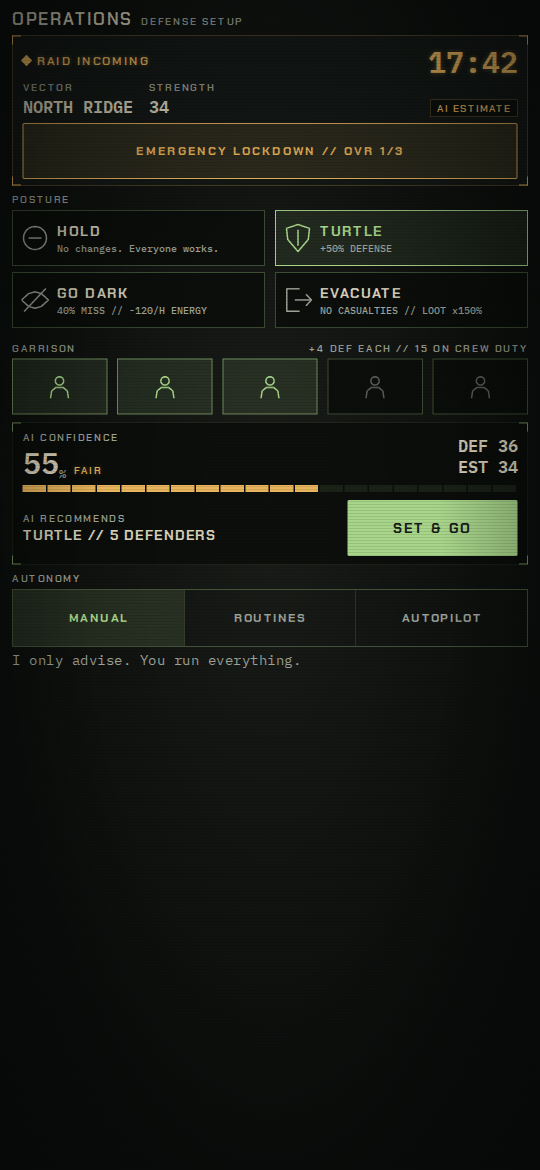
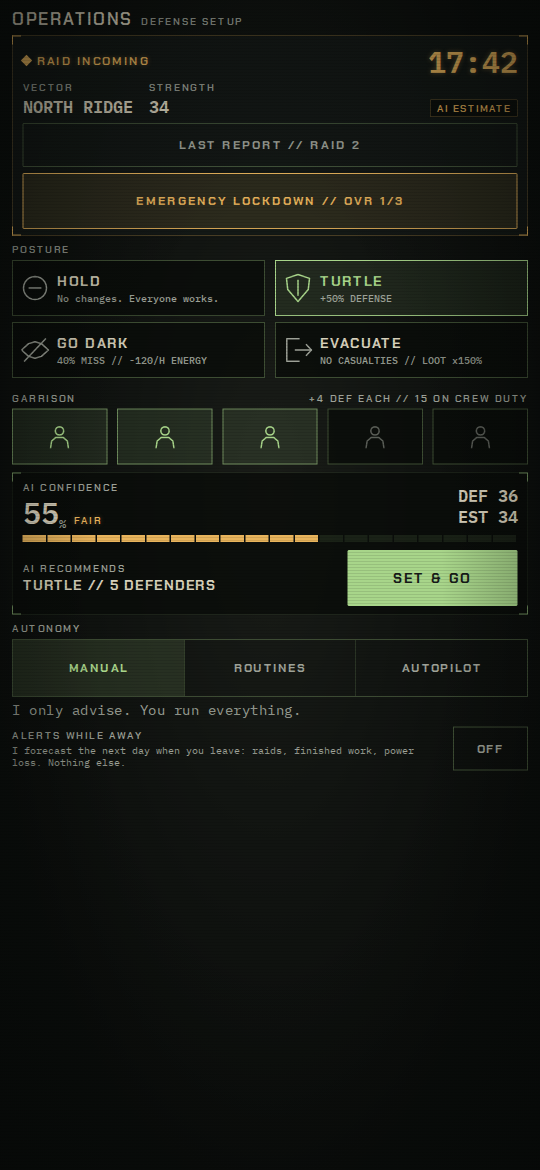
feat(ui): opt-in local notifications - schedule the logout forecast, cancel on return; close F-017
The mobile backend lives in its own assembly gated on com.unity.mobile.notifications
(versionDefines), so the project has no hard dependency on the package.

Claude-Session: https://claude.ai/code/session_01EKMT1Nv2wTRA3D1rfhWbSJ

diff --git a/unity/Assets/Game/Runtime/Notifications/Mobile/MobileAlertBackend.cs b/unity/Assets/Game/Runtime/Notifications/Mobile/MobileAlertBackend.cs
@@ -1,0 +1,77 @@
+using System;
+using System.Collections.Generic;
+using Deadswitch.Game.Core;
+using Deadswitch.Host.Notifications;
+using UnityEngine;
+#if UNITY_ANDROID
+using Unity.Notifications.Android;
+#endif
+#if UNITY_IOS
+using Unity.Notifications.iOS;
+#endif
+
+namespace Deadswitch.Game.Notifications
+{
+    /// <summary>
+    /// Android / iOS local notifications through com.unity.mobile.notifications (SPEC-010). This assembly only
+    /// compiles when that package is installed (versionDefines), so the game has no hard dependency on it.
+    /// </summary>
+    public sealed class MobileAlertBackend : IAlertBackend
+    {
+        private const string Channel = "ds_alerts";
+
+        [RuntimeInitializeOnLoadMethod(RuntimeInitializeLoadType.BeforeSceneLoad)]
+        private static void Register()
+        {
+            Bootstrap.Booted += _ =>
+            {
+#if UNITY_ANDROID || UNITY_IOS
+                LocalAlerts.Backend = new MobileAlertBackend();
+#endif
+            };
+        }
+
+        public void RequestPermission()
+        {
+#if UNITY_ANDROID
+            AndroidNotificationCenter.RegisterNotificationChannel(new AndroidNotificationChannel(Channel, "Core alerts", "Raids, construction and restored modules while you are away.", Importance.Default));
+            if (!UnityEngine.Android.Permission.HasUserAuthorizedPermission("android.permission.POST_NOTIFICATIONS"))
+            {
+                UnityEngine.Android.Permission.RequestUserPermission("android.permission.POST_NOTIFICATIONS");
+            }
+#elif UNITY_IOS
+            new AuthorizationRequest(AuthorizationOption.Alert | AuthorizationOption.Sound, false);
+#endif
+        }
+
+        public void Schedule(IReadOnlyList<ProjectedAlert> alerts, double secondsPerGameMinute)
+        {
+            for (int i = 0; i < alerts.Count; i++)
+            {
+                ProjectedAlert a = alerts[i];
+                double seconds = Math.Max(5.0, a.InMinutes * secondsPerGameMinute);
+#if UNITY_ANDROID
+                AndroidNotificationCenter.SendNotification(new AndroidNotification(a.Title, a.Body, DateTime.Now.AddSeconds(seconds)), Channel);
+#elif UNITY_IOS
+                iOSNotificationCenter.ScheduleNotification(new iOSNotification
+                {
+                    Identifier = "ds_" + i,
+                    Title = a.Title,
+                    Body = a.Body,
+                    ShowInForeground = false,
+                    Trigger = new iOSNotificationTimeIntervalTrigger { TimeInterval = TimeSpan.FromSeconds(seconds), Repeats = false },
+                });
+#endif
+            }
+        }
+
+        public void CancelAll()
+        {
+#if UNITY_ANDROID
+            AndroidNotificationCenter.CancelAllScheduledNotifications();
+#elif UNITY_IOS
+            iOSNotificationCenter.RemoveAllScheduledNotifications();
+#endif
+        }
+    }
+}

diff --git a/unity/Assets/Game/Runtime/Notifications/LocalAlerts.cs b/unity/Assets/Game/Runtime/Notifications/LocalAlerts.cs
@@ -1,0 +1,84 @@
+using System.Collections.Generic;
+using Deadswitch.Game.Core;
+using Deadswitch.Host.Notifications;
+using UnityEngine;
+
+namespace Deadswitch.Game.Notifications
+{
+    /// <summary>Platform side of local notifications. The mobile assembly replaces the default when available.</summary>
+    public interface IAlertBackend
+    {
+        /// <summary>Asks the OS for permission where needed (called when the handler opts in).</summary>
+        void RequestPermission();
+
+        void Schedule(IReadOnlyList<ProjectedAlert> alerts, double secondsPerGameMinute);
+
+        void CancelAll();
+    }
+
+    /// <summary>
+    /// Opt-in local notifications (SPEC-010): on pause/quit the logout projection's alerts are scheduled, on
+    /// return everything is cancelled. Off by default; nothing is scheduled while off.
+    /// </summary>
+    public static class LocalAlerts
+    {
+        private const string KeyEnabled = "ds.notify";
+
+        /// <summary>Set by the mobile assembly; logs in the Editor and on platforms without a backend.</summary>
+        public static IAlertBackend Backend { get; set; } = new LogBackend();
+
+        public static bool Enabled => PlayerPrefs.GetInt(KeyEnabled, 0) == 1;
+
+        public static void SetEnabled(bool on)
+        {
+            PlayerPrefs.SetInt(KeyEnabled, on ? 1 : 0);
+            PlayerPrefs.Save();
+            if (on)
+            {
+                Backend.RequestPermission();
+            }
+            else
+            {
+                Backend.CancelAll();
+            }
+        }
+
+        /// <summary>Called when the app goes to the background or quits.</summary>
+        public static void OnLeave(GameHost host)
+        {
+            Backend.CancelAll();
+            if (!Enabled || host == null || !host.IsReady)
+            {
+                return;
+            }
+
+            List<ProjectedAlert> alerts = LogoutProjection.Project(host.Sim, AlertKinds.All);
+            Backend.Schedule(alerts, 60.0 / host.Settings.DevTimeScale);
+        }
+
+        /// <summary>Called when the app returns: the forecast is stale and the handler is here.</summary>
+        public static void OnReturn()
+        {
+            Backend.CancelAll();
+        }
+
+        private sealed class LogBackend : IAlertBackend
+        {
+            public void RequestPermission()
+            {
+            }
+
+            public void Schedule(IReadOnlyList<ProjectedAlert> alerts, double secondsPerGameMinute)
+            {
+                foreach (ProjectedAlert a in alerts)
+                {
+                    Debug.Log("[DEADSWITCH] alert in " + (a.InMinutes * secondsPerGameMinute).ToString("0") + " s: " + a.Title + " // " + a.Body);
+                }
+            }
+
+            public void CancelAll()
+            {
+            }
+        }
+    }
+}

diff --git a/unity/Assets/Game/Runtime/UI/Screens/OpsScreen.cs b/unity/Assets/Game/Runtime/UI/Screens/OpsScreen.cs
@@ -66,6 +66,11 @@ namespace Deadswitch.Game.UI.Screens
             }
 
             _setGo.RegisterCallback<ClickEvent>(_ => SetAndGo());
+            Q("alerts-toggle").RegisterCallback<ClickEvent>(_ =>
+            {
+                Notifications.LocalAlerts.SetEnabled(!Notifications.LocalAlerts.Enabled);
+                Refresh();
+            });
             _lockdown.RegisterCallback<ClickEvent>(_ => Run(Command.UseOverride(OverrideKind.Lockdown)));
             Q("last-report").RegisterCallback<ClickEvent>(_ => openReport(BattleReport.LatestRaidId(_host.Sim.Log.Events)));
             BuildSockets();
@@ -222,6 +227,9 @@ namespace Deadswitch.Game.UI.Screens
             }
 
             Q<Label>("deleg-desc").text = DelegationLines[(int)s.Delegation];
+            bool alerts = Notifications.LocalAlerts.Enabled;
+            Q("alerts-toggle").EnableInClassList("is-on", alerts);
+            Q<Label>("alerts-label").text = alerts ? "ON" : "OFF";
         }
 
         private void SetAndGo()

diff --git a/unity/Assets/Game/Runtime/Core/GameHost.cs b/unity/Assets/Game/Runtime/Core/GameHost.cs
@@ -210,6 +210,7 @@ namespace Deadswitch.Game.Core
 
         private void CatchUp()
         {
+            Notifications.LocalAlerts.OnReturn();
             long now = NowMs();
             if (!_stamp.TryRead(out long last))
             {
@@ -313,6 +314,7 @@ namespace Deadswitch.Game.Core
             }
 
             SaveNow();
+            Notifications.LocalAlerts.OnLeave(this);
         }
     }
 }

diff --git a/docs/specs/SPEC-010-notifications.md b/docs/specs/SPEC-010-notifications.md
@@ -1,6 +1,6 @@
 # SPEC-010: Logout projection and local notifications
 
-- Status: In progress (F-017)
+- Status: Done (F-017); device check pending
 - Pillar: Defense & offline, AI relationship
 - Touches: offline catch-up (ADR-0004), raids (warnings while away, the AI's estimate), construction and research timers, settings (opt-in)
 - Source rules: ADR-0004 decision 3, doc 11 "Notifications" surface priority, AGENTS design quality (no coercive notifications)
@@ -18,9 +18,9 @@ Server push, rich media, notification actions, tribute reminders (F-018+).
 4. **Tone:** short, factual, AI voice; no guilt, no countdown pressure, no "come back" lines.
 
 ## Acceptance criteria
-- [ ] Projection is a pure function of the live sim (live state hash unchanged) and lists the expected raids
-- [ ] Opt-in toggle; schedule on pause/quit, cancel on resume
-- [ ] Mobile backend compiles only when com.unity.mobile.notifications is installed (no hard dependency)
+- [x] Projection is a pure function of the live sim (live state hash unchanged) and lists the expected raids
+- [x] Opt-in toggle; schedule on pause/quit, cancel on resume
+- [x] Mobile backend compiles only when com.unity.mobile.notifications is installed (no hard dependency)
 
 ## Tests
 `ProjectionTests`: live sim unchanged; projected raid warnings match a copy run forward.

diff --git a/docs/roadmap/BACKLOG.md b/docs/roadmap/BACKLOG.md
@@ -21,7 +21,7 @@ Order follows pillar rank (AI relationship > Base & economy > Defense & offline 
 | F-014 | Hidden project clock + Audit tool (Core Profile readout) | M2 | Done 2026-10-03 | doc 10 s2 |
 | F-015 | Module tree: trunk M1-M3 + first field (8 nodes), research timers, Tier 2 gate | M2 | Done 2026-10-03 | doc 10 s6 |
 | F-016 | Boot sequence + opening flow (early protection, first hit) | M4 | Done 2026-10-03 | doc 01 s7 |
-| F-017 | Logout projection + local notifications (opt-in, AI voice) | M3 | In progress | ADR-0004 |
+| F-017 | Logout projection + local notifications (opt-in, AI voice) | M3 | Done 2026-10-03 | ADR-0004 |
 | F-018 | Remaining signatures: siege, virus, purge + warning ladder, vacation shield, tribute orders | M3 | Later | |
 | F-019 | Factions + per-faction heat, world map | M5 | Later | |
 | F-021 | Ruthless choices: forced labor surge, purge, sacrifice (raise Coldness, lower loyalty) | M3 | Later | doc 03 s1, doc 10 s1.3 |

diff --git a/docs/agents/HANDOFF.md b/docs/agents/HANDOFF.md
@@ -8,6 +8,7 @@ A short, living snapshot for the next agent. **Edit in place; do not append sess
 
 ## Not yet verified in the Unity Editor
 - Report stills use `RenderPipeline.SubmitRenderRequest` (`Rendering/ReportRender.cs`, Unity 2023.2+ API) with a `Camera.Render` fallback; check the four panels render and are graded.
+- Local notifications (SPEC-010): install `com.unity.mobile.notifications` (Package Manager) to activate `Runtime/Notifications/Mobile` (versionDefines); without it alerts only log. Check Android 13 permission prompt and iOS authorization on device.
 - Nothing in `unity/Assets/Game` has run in the Editor yet (cloud sessions have no Unity). Compile check covers runtime code except `Runtime/Rendering/` (URP) and `Editor/`. First owner run: open `unity/`, press Play, check Console for `[DEADSWITCH]` lines and pink materials (shader `Resources/Shaders/DeadswitchLit.shader`).
 
 ## Gotchas

diff --git a/TASK.md b/TASK.md
@@ -1,6 +1,6 @@
 # TASK: F-017 Logout projection + local notifications
 
-- Status: In progress
+- Status: Done
 - Started: 2026-10-03   Branch: claude/magical-ritchie-bx4xbb
 - Pillar / milestone: Defense & offline / M3
 - Spec: docs/specs/SPEC-010-notifications.md
@@ -11,8 +11,8 @@ Opt-in local notifications in the AI's voice, forecast by running a copy of the 
 
 ## Steps
 - [x] 1. Host: `LogoutProjection` + alert texts, test
-- [ ] 2. Unity: notifications facade + optional mobile backend, schedule on pause/quit, cancel on resume, OPS opt-in toggle
-- [ ] 3. Docs (SPEC-010, BACKLOG, HANDOFF)
+- [x] 2. Unity: notifications facade + optional mobile backend, schedule on pause/quit, cancel on resume, OPS opt-in toggle
+- [x] 3. Docs (SPEC-010, BACKLOG, HANDOFF)
 
 ## Notes
 - F-016 closed 2026-10-03 (opening flow).
